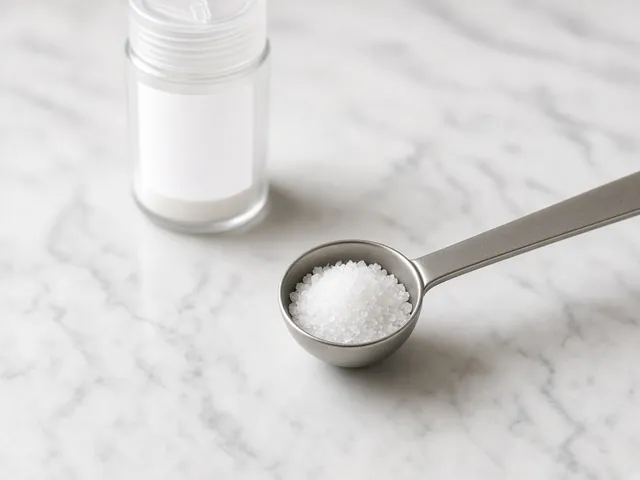
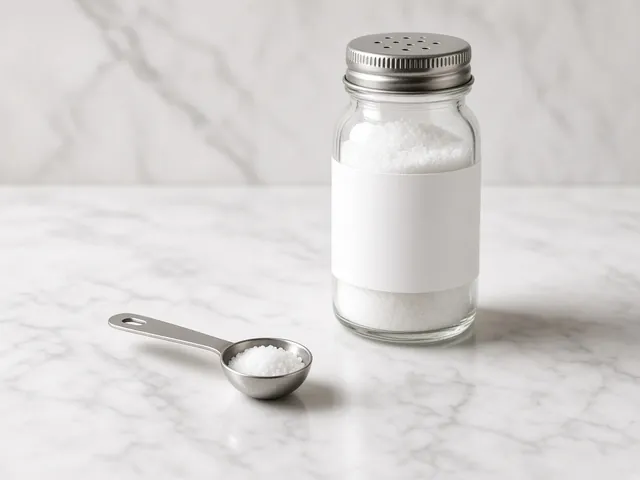
v1.2.4 preview: toast More cue, backfill retry, 1/4-tsp salt photo
Same review fixes as the pics branch. Service worker cache is
k-swipe-preview-v1.2.4. Not the live K Swipe site.

diff --git a/index.html b/index.html
@@ -61,7 +61,7 @@
   #gameScreen{ overflow:hidden; }
   #gameScreen .topBars, #gameScreen .controls{ flex:0 0 auto; }
   #gameScreen .stack{ flex:1 1 0; min-height:0; }
-  #gameScreen .toast{ flex:0 1 auto; min-height:0; max-height:min(38dvh, 13.5rem); overflow:hidden; display:flex; flex-direction:column; }
+  #gameScreen .toast{ flex:0 1 auto; min-height:0; max-height:min(42dvh, 15.5rem); overflow:hidden; display:flex; flex-direction:column; }
   .screen > .bigBtn{ flex:0 0 auto; min-height:44px; }
   :focus-visible{ outline:3px solid #fbbf24; outline-offset:2px; }
   h2[tabindex="-1"]:focus{ outline:none; }
@@ -171,7 +171,14 @@
 
   .toast{ background:rgba(2,6,23,.85); border:2px solid rgba(203,213,225,.3); padding:.75rem .85rem; border-radius:1.1rem; font-size:16px; line-height:1.4; flex:none; }
   .toast.good{ border-color:#22c55e; } .toast.bad{ border-color:#f87171; }
-  .toast-body{ flex:1 1 auto; min-height:0; overflow-y:auto; -webkit-overflow-scrolling:touch; }
+  .toast-body{ flex:1 1 auto; min-height:0; overflow-y:auto; -webkit-overflow-scrolling:touch; position:relative; }
+  .toastScrollCue{
+    position:sticky; bottom:0; z-index:1;
+    margin:0 -.15rem; padding:.3rem .4rem .15rem;
+    text-align:center; font-size:14px; font-weight:800; color:#fff;
+    background:linear-gradient(transparent, rgba(2,6,23,.96) 45%);
+    pointer-events:none;
+  }
   .toast .coach{ margin-top:.35rem; color:var(--ink2); font-size:16px; }
   .toast .row{ display:flex; gap:.6rem; align-items:center; justify-content:space-between; margin-top:.45rem; flex-wrap:wrap;
     flex:0 0 auto; position:sticky; bottom:0; z-index:1;
@@ -265,12 +272,12 @@
     .name{ font-size:1.3rem; }
     .card.revealed .name{ font-size:1.15rem; }
     .toast{ padding:.55rem .75rem; }
-    #gameScreen .toast{ max-height:min(32dvh, 11.5rem); }
+    #gameScreen .toast{ max-height:min(36dvh, 13.5rem); }
   }
   @media (max-height:700px){
     .card.revealed.has-meal .photoWrap{ display:none; }
     .card.revealed.has-meal .mealList{ min-height:5.75rem; }
-    #gameScreen .toast{ max-height:min(28dvh, 9.5rem); }
+    #gameScreen .toast{ max-height:min(34dvh, 12rem); }
   }
   /* Phones: stacked compact scale boxes so every cutoff is readable.
      Two-column starts at the iPad breakpoint below. */
@@ -1006,10 +1013,22 @@ function showFeedback(c, ok){
     el("div", { class:"row" }, el("span", { class:"tapnote", text:"Tap anywhere on the card to continue" }), next));
   liveEl.textContent = (ok ? "Correct. " : "Not quite. ") + right + " " + c.teach;
   requestAnimationFrame(() => {
-    const tight = window.innerHeight <= 700 || body.scrollHeight > body.clientHeight + 4;
-    if (tight && coach.parentNode) coach.remove();
+    updateToastScrollCue(body);
     next.focus({ preventScroll:true });
   });
+}
+function updateToastScrollCue(body){
+  if (!body) return;
+  let cue = body.querySelector(".toastScrollCue");
+  const overflow = body.scrollHeight > body.clientHeight + 4;
+  if (!overflow){ if (cue) cue.remove(); return; }
+  if (!cue){
+    cue = el("div", { class:"toastScrollCue", text:"More ↓" });
+    body.append(cue);
+    body.addEventListener("scroll", () => updateToastScrollCue(body), { passive:true });
+  }
+  const atBottom = body.scrollTop + body.clientHeight >= body.scrollHeight - 10;
+  cue.hidden = atBottom;
 }
 
 function dismissToast(){
@@ -1281,19 +1300,39 @@ show("startScreen");
 $("startPanel") && $("startPanel").addEventListener("scroll", updateStartScrollCue, { passive:true });
 window.addEventListener("resize", updateStartScrollCue);
 
+const IMAGE_BACKFILL_TOTAL = 124;
+async function cachedImageCount(){
+  if (!("caches" in window)) return 0;
+  try {
+    const keys = await caches.keys();
+    let n = 0;
+    for (const k of keys){
+      const cache = await caches.open(k);
+      const reqs = await cache.keys();
+      n += reqs.filter(r => /\/images\/[^?]+\.webp$/i.test(new URL(r.url).pathname)).length;
+    }
+    return n;
+  } catch (e){ return 0; }
+}
 function startImageBackfill(){
-  if (startImageBackfill.started) return;
   if (!("serviceWorker" in navigator)) return;
   const post = () => {
     const ctl = navigator.serviceWorker.controller;
     if (!ctl) return false;
-    startImageBackfill.started = true;
     ctl.postMessage({ type:"backfill-images" });
     return true;
   };
-  if (post()) return;
-  navigator.serviceWorker.addEventListener("controllerchange", () => { post(); }, { once:true });
+  const run = async () => {
+    let n = 0;
+    try { n = await cachedImageCount(); } catch (e){}
+    if (n >= IMAGE_BACKFILL_TOTAL) return;
+    if (!post()){
+      navigator.serviceWorker.addEventListener("controllerchange", () => startImageBackfill(), { once:true });
+    }
+  };
+  run();
 }
+window.addEventListener("online", () => startImageBackfill());
 
 if ("serviceWorker" in navigator && location.protocol !== "file:"){
   window.addEventListener("load", () => {

diff --git a/sw.js b/sw.js
@@ -5,7 +5,7 @@
    Fetch strategy: stale-while-revalidate — serve the cached copy immediately,
    then update the cache from the network for the next visit. If the network
    is down, the cached copy (or the precached index.html for navigations) is used. */
-const CACHE_VERSION = "k-swipe-preview-v1.2.3";
+const CACHE_VERSION = "k-swipe-preview-v1.2.4";
 const ASSETS = [
   "./",
   "./index.html",
@@ -182,21 +182,54 @@ self.addEventListener("fetch", (event) => {
   })());
 });
 
-async function backfillImages(){
-  const cache = await caches.open(CACHE_VERSION);
+let backfillRunning = false;
+let backfillQueued = false;
+
+async function countCachedImages(cache){
+  cache = cache || await caches.open(CACHE_VERSION);
+  let n = 0;
   for (const url of IMAGES){
-    try {
-      const hit = await cache.match(url, { ignoreSearch: true });
-      if (hit) continue;
-      const res = await fetch(url);
-      if (res && res.ok) await cache.put(url, res);
-    } catch (e) {}
-    await new Promise((r) => setTimeout(r, 80));
+    if (await cache.match(url, { ignoreSearch: true })) n++;
+  }
+  return n;
+}
+
+async function notifyBackfillProgress(cached){
+  const clients = await self.clients.matchAll({ includeUncontrolled:true, type:"window" });
+  for (const c of clients) c.postMessage({ type:"backfill-progress", cached, total: IMAGES.length });
+}
+
+async function backfillImages(){
+  if (backfillRunning){ backfillQueued = true; return; }
+  backfillRunning = true;
+  try {
+    do {
+      backfillQueued = false;
+      const cache = await caches.open(CACHE_VERSION);
+      for (const url of IMAGES){
+        try {
+          const hit = await cache.match(url, { ignoreSearch: true });
+          if (hit) continue;
+          const res = await fetch(url);
+          if (res && res.ok) await cache.put(url, res);
+        } catch (e) {}
+        await new Promise((r) => setTimeout(r, 80));
+      }
+      const cached = await countCachedImages(cache);
+      await notifyBackfillProgress(cached);
+    } while (backfillQueued && (await countCachedImages()) < IMAGES.length);
+  } finally {
+    backfillRunning = false;
   }
 }
 
 self.addEventListener("message", (event) => {
   if (event.data && event.data.type === "backfill-images"){
     event.waitUntil(backfillImages());
+  } else if (event.data && event.data.type === "backfill-status"){
+    event.waitUntil((async () => {
+      const cached = await countCachedImages();
+      if (event.source) event.source.postMessage({ type:"backfill-progress", cached, total: IMAGES.length });
+    })());
   }
 });

diff --git a/CONTENT_REVIEW.md b/CONTENT_REVIEW.md
@@ -29,8 +29,6 @@ Counts: 98 food cards, 22 plates, 15 "which is lower?" cards (135 total).
 - **apple**: Serving reduced to ½ cup slices; a whole medium apple is ~195 mg (moderate).
 - **collards**: Placed in level 5 as a "surprise low" green. Confirm you want this message.
 - **cola**: Rated low K with phosphorus note, per request.
-- **low-sodium-veg-juice**: Low-sodium V8-type juices list ~800-900 mg per cup on labels; 550 is a conservative middle estimate. Verify.
-- **cmp-v8**: Values from product labels (regular ~470, low-sodium ~900 mg per cup). Verify current labels.
 
 ## Food cards
 | # | Status | Level | Food | Serving | ~mg | Category | Teaching text | Source |
@@ -121,7 +119,7 @@ Counts: 98 food cards, 22 plates, 15 "which is lower?" cards (135 total).
 | 84 | new | 5 | 🥤 Sports drink (Gatorade-type) | 12 oz | 80 | Low | Most sports drinks are low in potassium, but brands vary. 'Electrolyte' and coconut-based drinks can be much higher. Check the label. | USDA FoodData Central |
 | 85 | new | 5 | 🥛 Chocolate milk | 1 cup | 420 | High | Milk plus cocoa makes chocolate milk high in potassium. | USDA FoodData Central |
 | 86 | new | 5 | 🥜 Pistachios | 1 oz (about 49) | 290 | High | Pistachios are one of the higher-potassium nuts. | USDA FoodData Central |
-| 87 | new | 5 | 🍅 Low-sodium tomato/vegetable juice | 1 cup | 550 | High | 'Low sodium' vegetable juices are often very high in potassium, partly from potassium chloride added to replace salt. | USDA FoodData Central |
+| 87 | new | 5 | 🍅 Low-sodium tomato/vegetable juice | 1 cup | 850 | High | 'Low sodium' vegetable juices are often very high in potassium, partly from potassium chloride added to replace salt. | USDA FoodData Central |
 | 88 | new | 5 | 🥩 'Enhanced' pork or chicken (solution added) | 3 oz | 400 | High | Meats labeled 'enhanced' or 'contains up to X% solution' may be injected with potassium salts. Check the label for 'potassium'. | Estimate; varies by product label |
 | 89 | new | 5 | 🥣 Raisin bran cereal | 1 cup | 360 | High | Bran plus raisins makes this cereal high in potassium. | USDA FoodData Central |
 | 90 | new | 5 | 🌴 Medjool dates | 2 dates | 335 | High | Dates are dried fruit, so they are high. | USDA FoodData Central |
@@ -179,7 +177,7 @@ Note: ingredient labels on plates now describe the item *as portioned on that pl
 | 12 | 4 | Kidney beans, ½ cup (~360 mg) | Green beans, ½ cup (~90 mg) | B | Green beans are pods, not dried beans, and are much lower. |
 | 13 | 4 | Almonds, 1 oz (~210 mg) | Popcorn, 3 cups (~90 mg) | B | Plain popcorn is the lower-potassium crunchy snack. |
 | 14 | 4 | Watermelon, ½ cup (~85 mg) | Cantaloupe, ½ cup (~215 mg) | A | Watermelon is lower than cantaloupe per half cup. |
-| 15 | 5 | Regular vegetable juice, 1 cup (~470 mg) | Low-sodium vegetable juice, 1 cup (~900 mg) | A | Surprise: the low-sodium version is often higher, because potassium chloride replaces salt. Both are high. |
+| 15 | 5 | Regular vegetable juice, 1 cup (~470 mg) | Low-sodium vegetable juice, 1 cup (~850 mg) | A | Surprise: the low-sodium version is often higher, because potassium chloride replaces salt. Both are high. |
 
 ## Removed from the original
 - "Water is always a safe drink choice" (replaced with fluid-limit wording).

diff --git a/CHANGES_1.2.md b/CHANGES_1.2.md
@@ -5,10 +5,10 @@ For Dr D's review on the `pics` branch. This branch is not merged to main, and t
 ## What changed
 
 - Every food, plate, and compare card now has a clear, appetizing food photograph, shown above the (still large) food name.
-- 123 original AI-generated photographs are bundled locally as WebP (each 40 KB or less) so the app still works offline.
+- 124 original AI-generated photographs are bundled locally as WebP (each 40 KB or less) so the app still works offline.
 - Images are lazy-loaded, have alt text, and fall back to the existing emoji if a file is missing.
 - Photos shrink after you answer so the verdict, plate list, and feedback still fit, including on an iPhone SE and in iPad landscape.
-- The service worker cache is now `k-swipe-v1.2.3`. The app shell is precached; food photographs are cached on first view and quietly backfilled after idle or the first finished round (so the first visit stays light, and offline play still works once pictures have downloaded).
+- The service worker cache is now `k-swipe-v1.2.4`. The app shell is precached; food photographs are cached on first view and quietly backfilled after idle or the first finished round (so the first visit stays light, and offline play still works once pictures have downloaded).
 - The main start button (new players, Level 1) now says "Let's play! 🍌" instead of "Start Level 1". After Level 1 is unlocked, it still says "Continue: Level …".
 - The Pasta (plain) photograph was regenerated so it shows a modest half-cup of plain drained pasta with no sauce. Other pasta, noodle, and rice cards whose text has no sauce were checked; only this photo needed a change.
 
